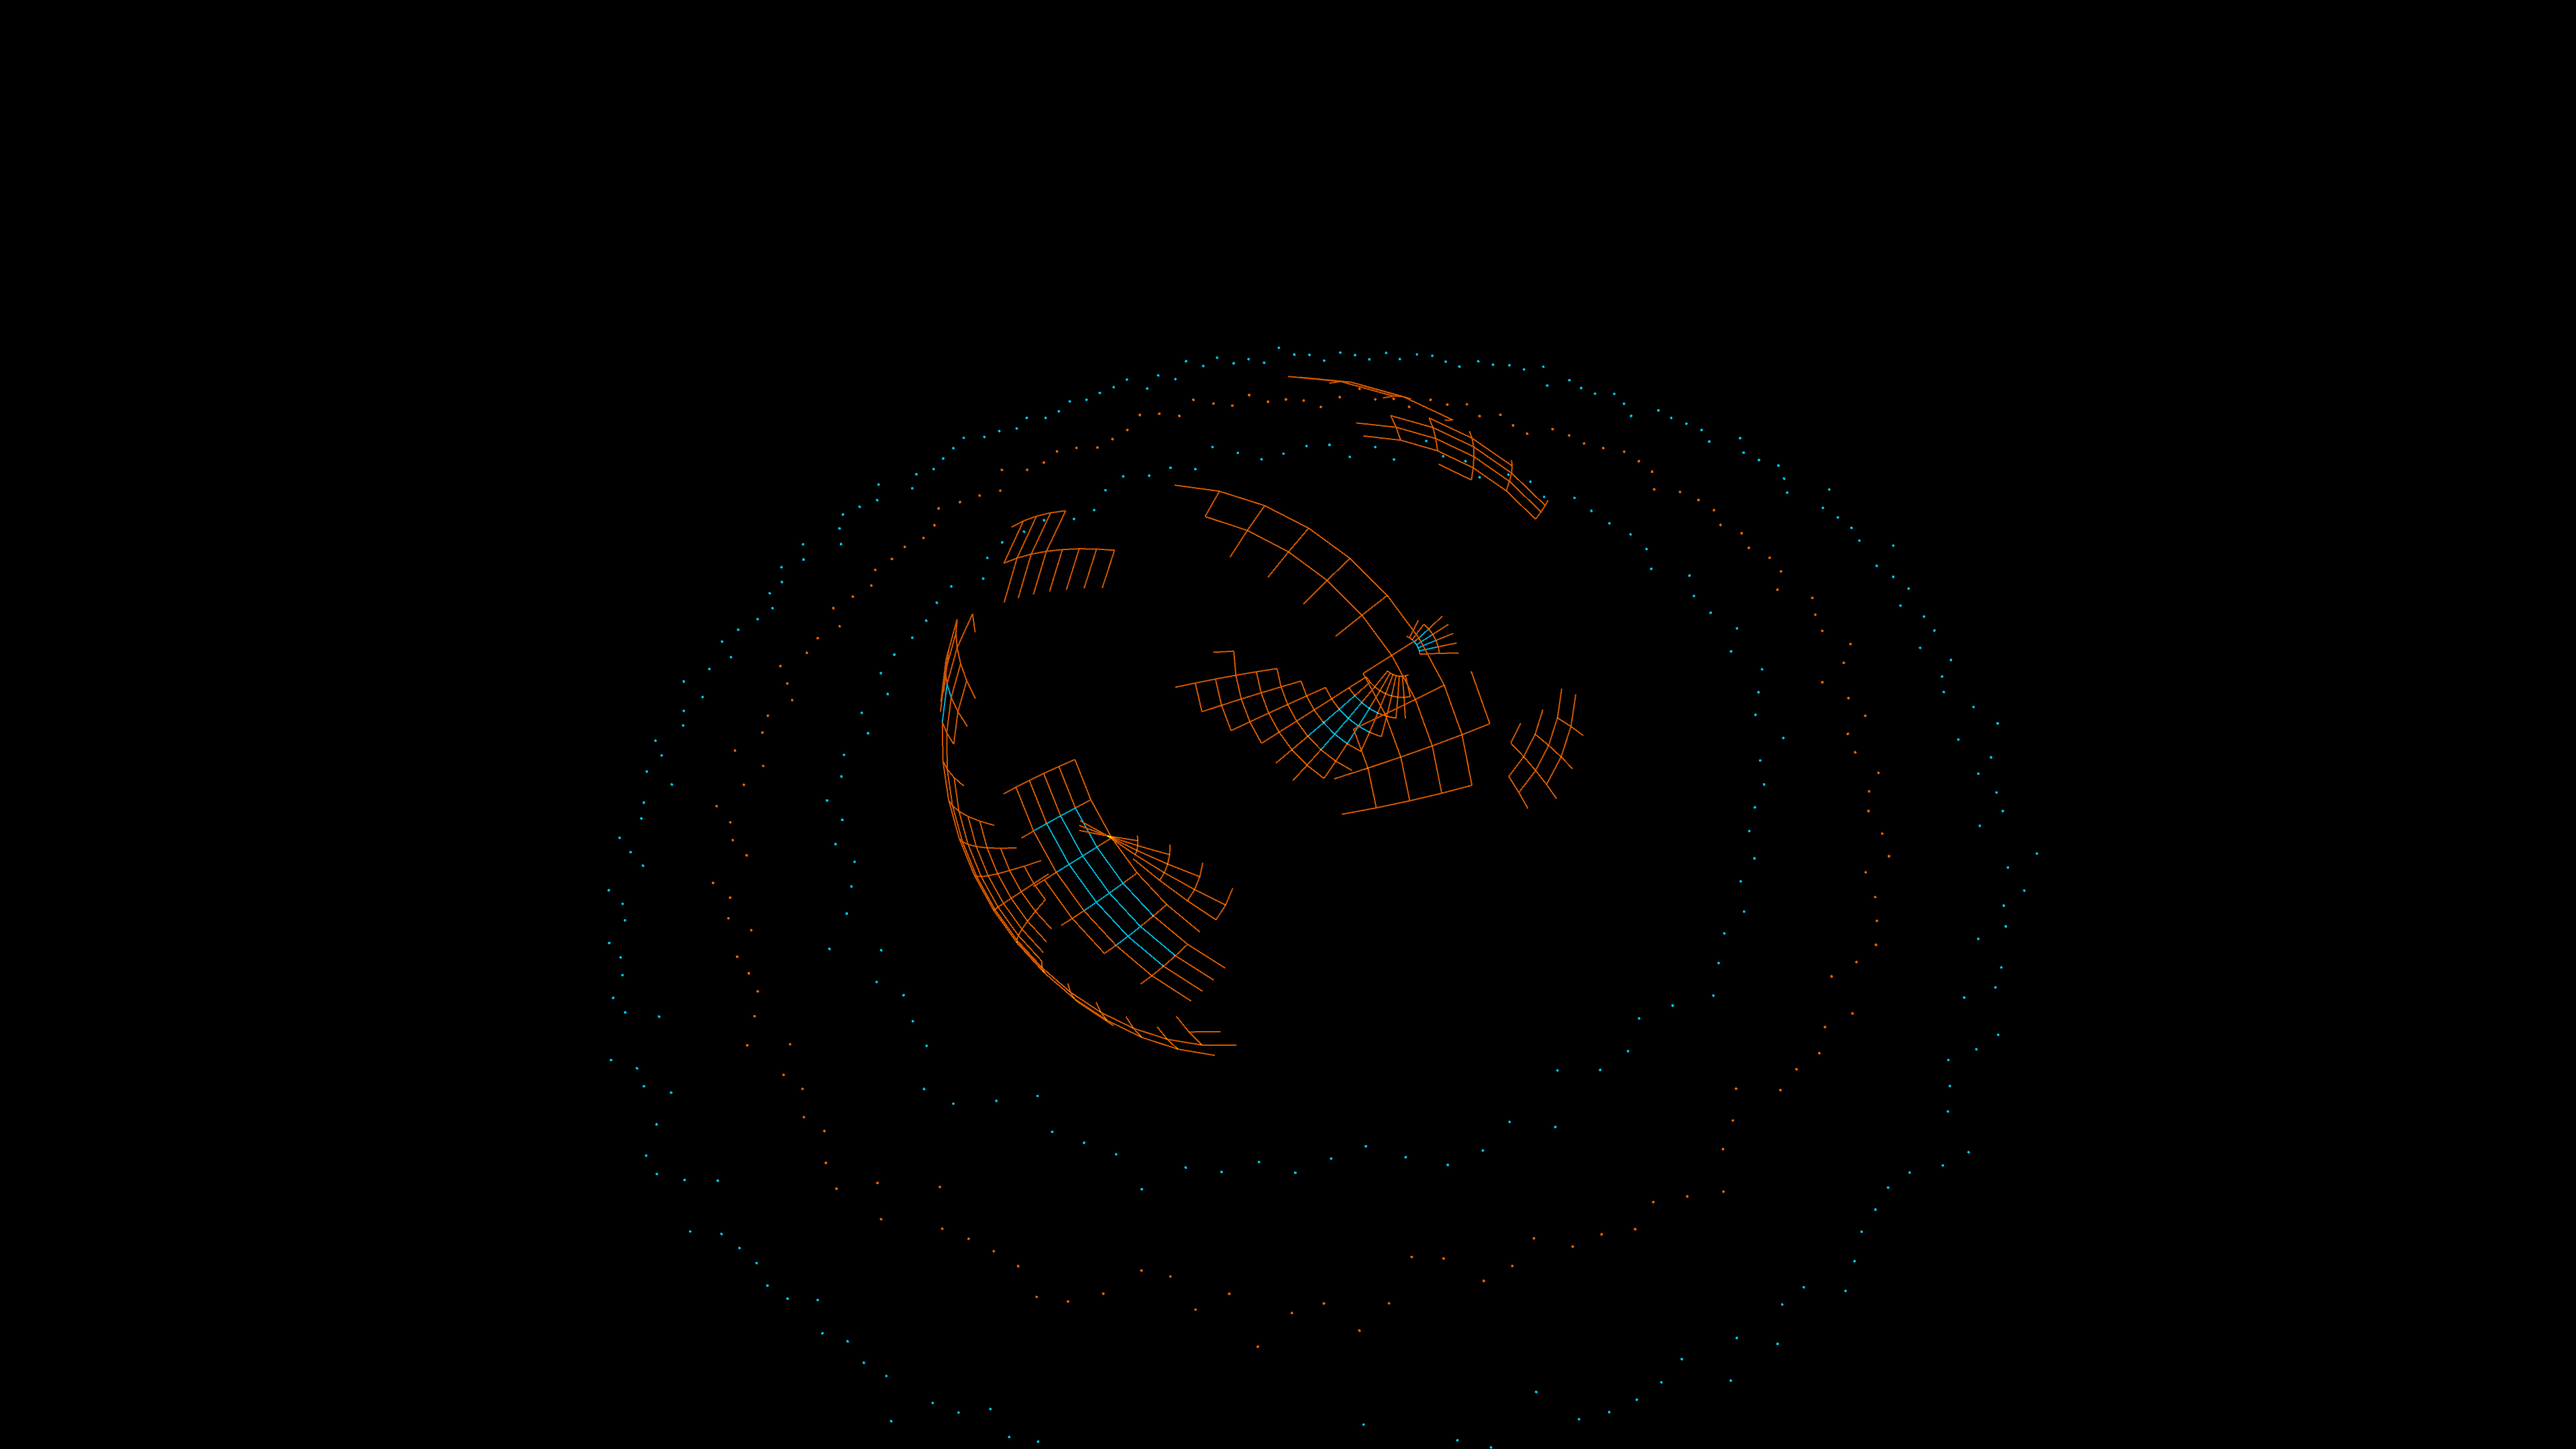
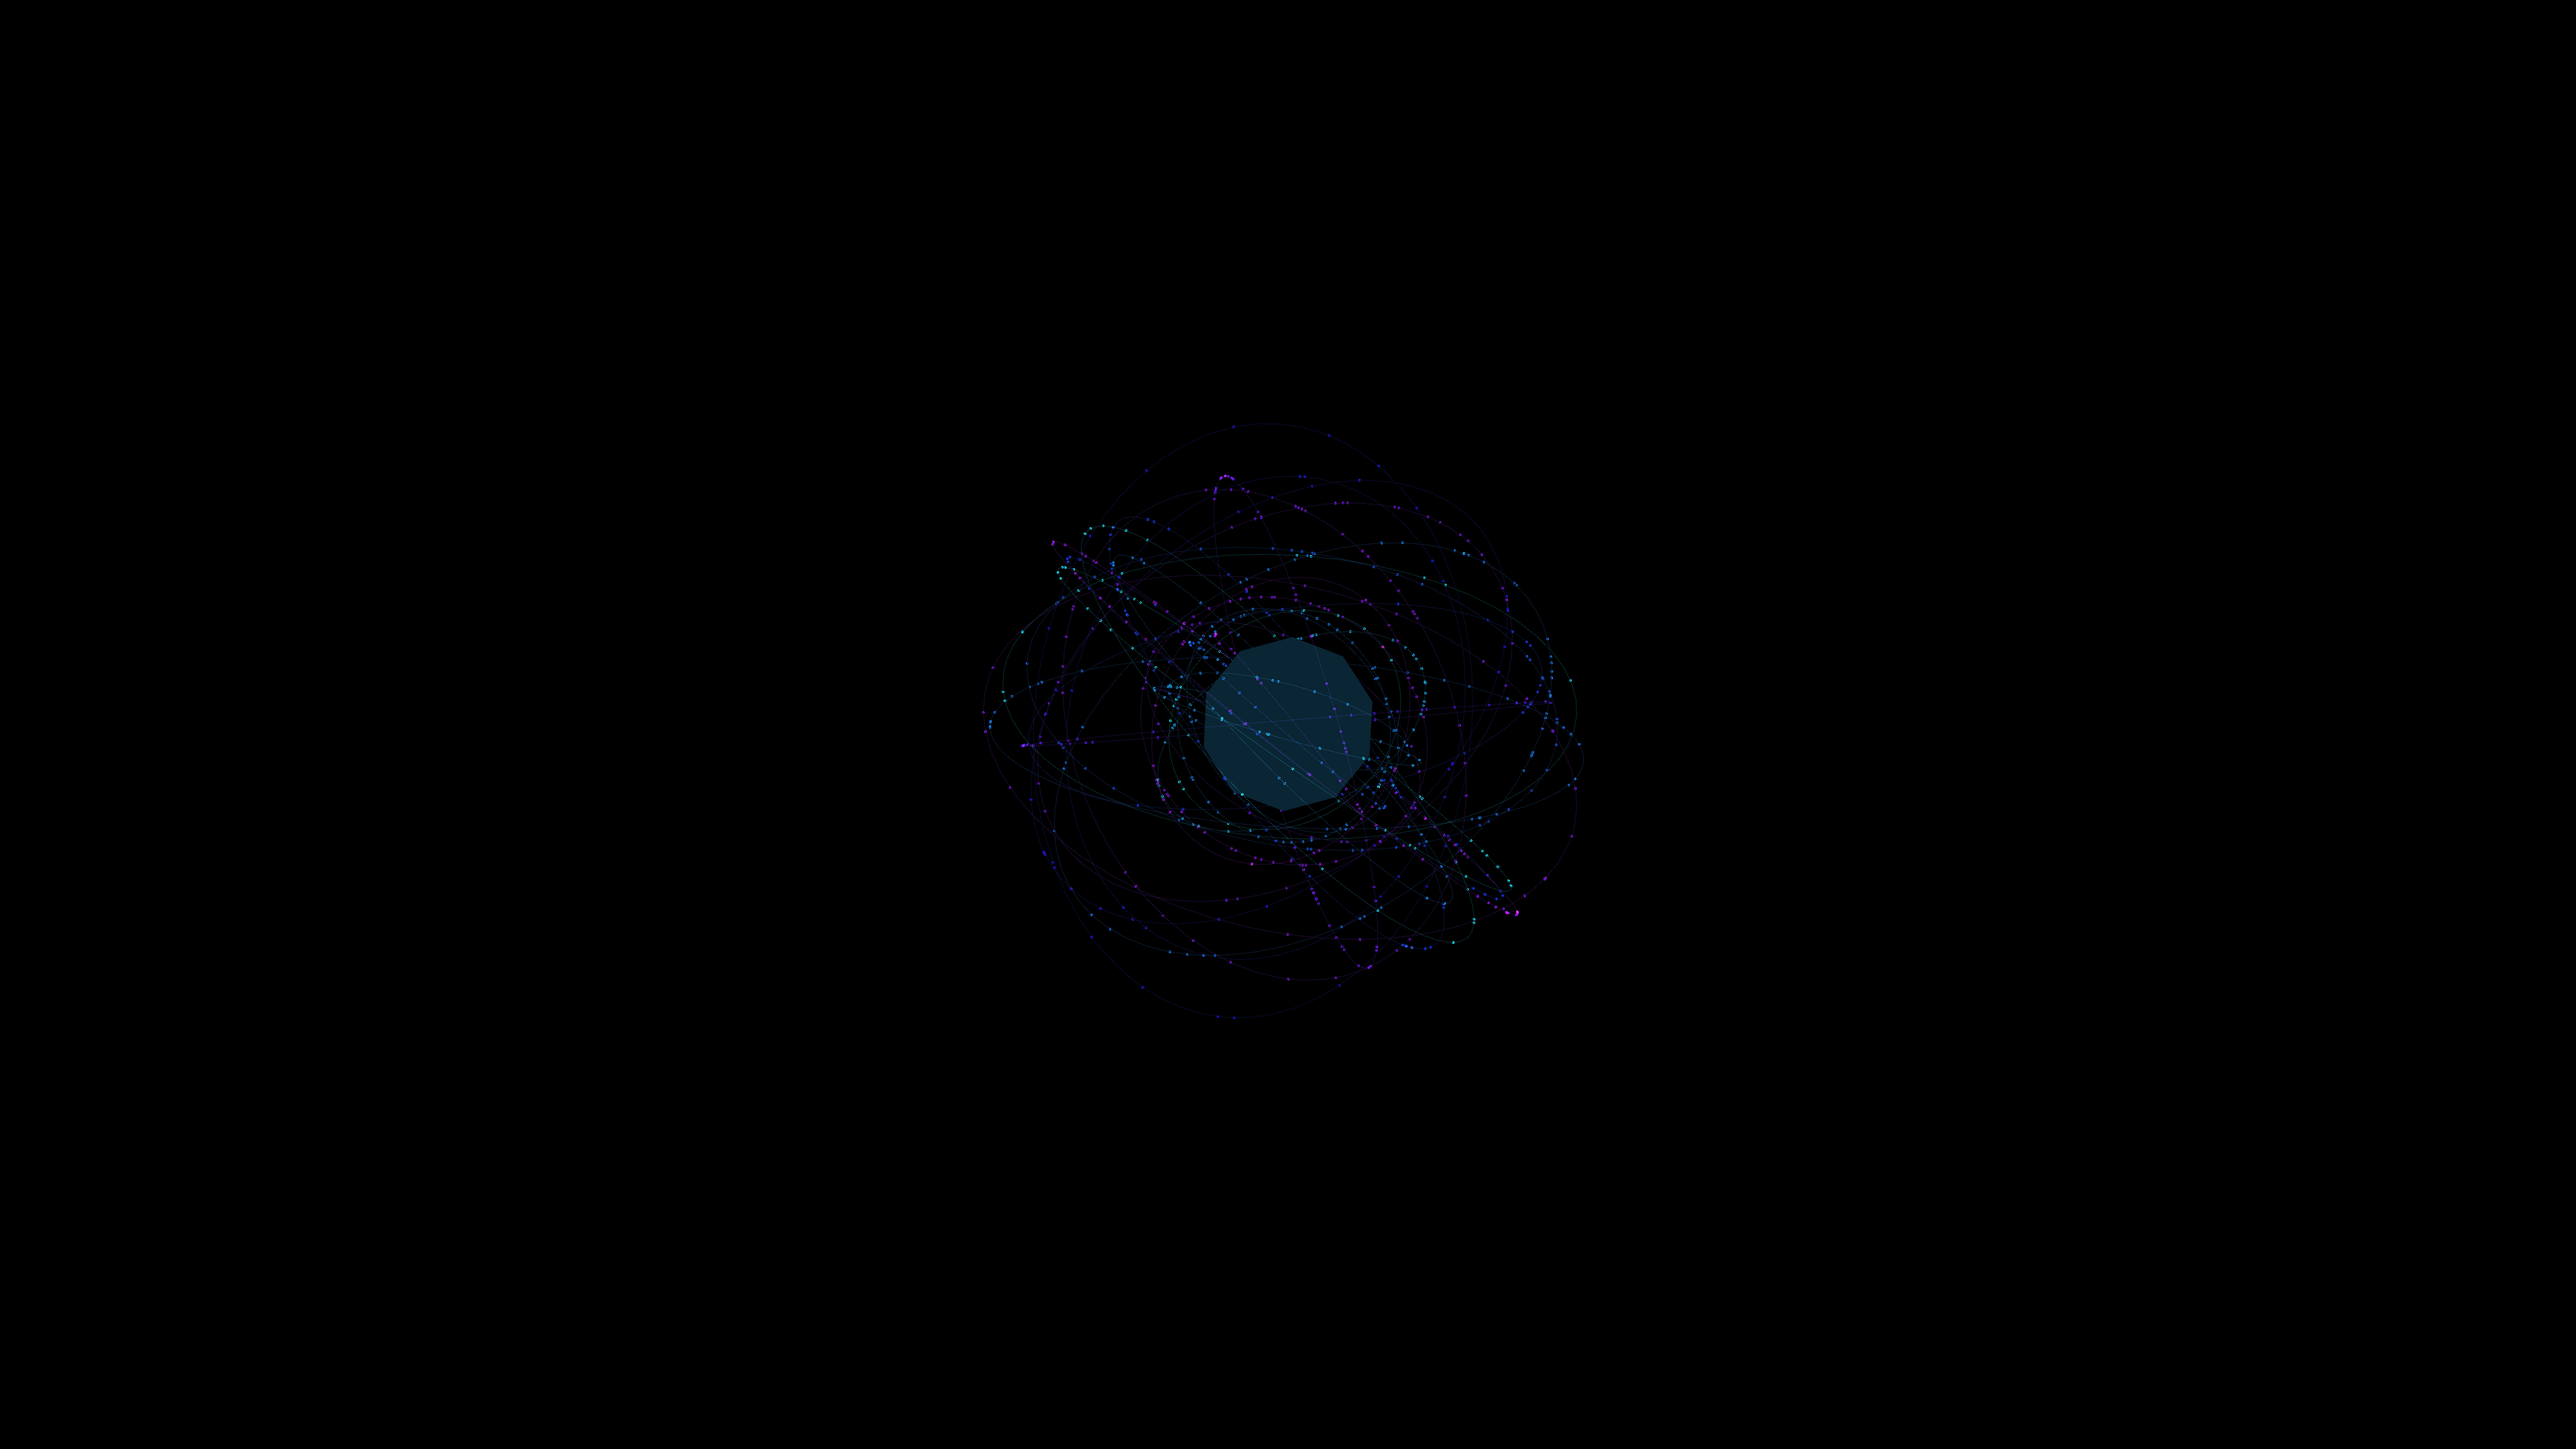
feat(art): add cybernetic_holographic_data_sphere_3d video artwork

diff --git a/sketch/cybernetic_holographic_data_sphere_3d/main.py b/sketch/cybernetic_holographic_data_sphere_3d/main.py
@@ -2,6 +2,7 @@ from pathlib import Path
 import shutil
 import subprocess
 import sys
+import random
 import py5
 import numpy as np
 
@@ -16,114 +17,111 @@ from lib.sizes import get_sizes
 SKETCH_DIR = sketch_dir(__file__)
 WORK_NAME = SKETCH_DIR.name
 FRAMES_DIR = SKETCH_DIR / "frames"
-DURATION_SEC = 20
+DURATION_SEC = 10
 FPS = 60
 TOTAL_FRAMES = DURATION_SEC * FPS
 PREVIEW_FILENAME = f"{WORK_NAME}_p1.png"
 PREVIEW_SIZE, OUTPUT_SIZE, _ = get_sizes()
 SIZE = OUTPUT_SIZE
 
+NUM_RINGS = 30
+
+class Ring:
+    def __init__(self, i):
+        self.id = i
+        self.radius = 400 + py5.random(-50, 50) if i > 10 else 200 + py5.random(-30, 30)
+        self.rot_x = random.uniform(0, py5.TWO_PI)
+        self.rot_y = random.uniform(0, py5.TWO_PI)
+        self.rot_z = random.uniform(0, py5.TWO_PI)
+        self.speed_x = random.uniform(-0.02, 0.02)
+        self.speed_y = random.uniform(-0.02, 0.02)
+        self.speed_z = random.uniform(-0.02, 0.02)
+        self.hue = random.uniform(180, 280)
+        self.points = int(random.uniform(20, 100))
+        self.dots = []
+        for _ in range(self.points):
+            if random.random() > 0.5:
+                self.dots.append(random.uniform(0, py5.TWO_PI))
+
 def setup():
     py5.size(*SIZE, py5.P3D)
     py5.pixel_density(1)
-    FRAMES_DIR.mkdir(exist_ok=True)
     py5.color_mode(py5.HSB, 360, 100, 100, 100)
+    FRAMES_DIR.mkdir(exist_ok=True)
+    py5.background(0)
     
+    global rings
+    rings = [Ring(i) for i in range(NUM_RINGS)]
+
 def draw():
-    py5.background(0) # Pure black
-    
-    time = py5.frame_count * 0.05
-    
-    py5.translate(SIZE[0]/2, SIZE[1]/2, 0)
-    
-    py5.rotate_x(time * 0.2)
-    py5.rotate_y(time * 0.3)
-    
+    py5.background(0)
     py5.blend_mode(py5.ADD)
     
-    radius = 500
-    details = 40
+    t = py5.frame_count * 0.05
     
-    py5.stroke_weight(2)
+    py5.translate(py5.width/2, py5.height/2, 0)
+    
+    # Global rotation
+    py5.rotate_x(t * 0.1)
+    py5.rotate_y(t * 0.15)
+    
+    # Draw core sphere
+    py5.no_stroke()
+    py5.fill(200, 80, 50, 40)
+    py5.sphere_detail(10)
+    py5.sphere(150 + 20 * py5.sin(t*2))
+    
+    # Draw rings
     py5.no_fill()
-    
-    # Draw fragmented sphere
-    for i in range(details):
-        lat0 = py5.PI * (-0.5 + float(i - 1) / details)
-        z0 = radius * py5.sin(lat0)
-        zr0 = radius * py5.cos(lat0)
-
-        lat1 = py5.PI * (-0.5 + float(i) / details)
-        z1 = radius * py5.sin(lat1)
-        zr1 = radius * py5.cos(lat1)
-
-        for j in range(details):
-            lng = py5.TWO_PI * float(j - 1) / details
-            x0 = py5.cos(lng) * zr0
-            y0 = py5.sin(lng) * zr0
-            x1 = py5.cos(lng) * zr1
-            y1 = py5.sin(lng) * zr1
-
-            lng1 = py5.TWO_PI * float(j) / details
-            x2 = py5.cos(lng1) * zr1
-            y2 = py5.sin(lng1) * zr1
-            x3 = py5.cos(lng1) * zr0
-            y3 = py5.sin(lng1) * zr0
-            
-            # Glitchy fragmentation using noise
-            n = py5.os_noise(i * 0.1, j * 0.1, time * 0.5)
-            if n > 0.4:
-                # Cyan and orange palette
-                if n > 0.7:
-                    py5.stroke(190, 100, 100, 80) # Cyan
-                else:
-                    py5.stroke(25, 100, 100, 80) # Orange
-                    
-                py5.begin_shape(py5.LINES)
-                py5.vertex(x0, y0, z0)
-                py5.vertex(x1, y1, z1)
-                
-                py5.vertex(x1, y1, z1)
-                py5.vertex(x2, y2, z1)
-                py5.end_shape()
-
-    # Draw orbiting rings of data points
-    py5.rotate_x(-time * 0.4)
-    py5.rotate_z(time * 0.1)
-    
-    for r in range(3):
-        ring_radius = radius + 200 + r * 150
-        num_points = 100 + r * 50
+    for ring in rings:
+        py5.push_matrix()
         
-        py5.stroke(190, 100, 100, 90) if r % 2 == 0 else py5.stroke(25, 100, 100, 90)
+        py5.rotate_x(ring.rot_x + t * ring.speed_x)
+        py5.rotate_y(ring.rot_y + t * ring.speed_y)
+        py5.rotate_z(ring.rot_z + t * ring.speed_z)
+        
+        # Draw ring track
+        py5.stroke(ring.hue, 80, 30, 60)
+        py5.stroke_weight(1)
+        
+        py5.begin_shape()
+        res = 60
+        for i in range(res + 1):
+            angle = (i / res) * py5.TWO_PI
+            py5.vertex(ring.radius * py5.cos(angle), ring.radius * py5.sin(angle), 0)
+        py5.end_shape(py5.CLOSE)
+        
+        # Draw data points on ring
+        py5.stroke(ring.hue, 90, 100, 90)
         py5.stroke_weight(4)
-        
-        py5.begin_shape(py5.POINTS)
-        for p in range(num_points):
-            angle = p * py5.TWO_PI / num_points + time * (0.05 + r * 0.02)
+        for dot_angle in ring.dots:
+            a = dot_angle + t * ring.speed_z * 2
+            x = ring.radius * py5.cos(a)
+            y = ring.radius * py5.sin(a)
+            py5.point(x, y, 0)
             
-            # Add some jitter to points
-            jitter = (py5.os_noise(p, r, time) - 0.5) * 50
-            
-            px = py5.cos(angle) * (ring_radius + jitter)
-            py5.vertex(px, 0, py5.sin(angle) * (ring_radius + jitter))
-        py5.end_shape()
+            # Occasional line to core
+            if py5.os_noise(ring.id, dot_angle, t * 0.1) > 0.8:
+                py5.stroke_weight(1)
+                py5.stroke((ring.hue + 50) % 360, 80, 80, 40)
+                py5.line(x, y, 0, 0, 0, 0)
+                py5.stroke_weight(4)
+                py5.stroke(ring.hue, 90, 100, 90)
+                
+        py5.pop_matrix()
+
+    if py5.frame_count % 60 == 0:
+        py5.load_np_pixels()
 
     py5.save_frame(str(FRAMES_DIR / "frame-####.png"))
 
-    if py5.frame_count == 2 or py5.frame_count % 60 == 0:
-        py5.load_np_pixels()
-        if py5.np_pixels.std() < 1.0:
-            print(f"[Error] Blank screen detected on frame {py5.frame_count} (std < 1.0). Aborting.")
-            import os
-            os._exit(1)
-
     if py5.frame_count % 60 == 0:
-        print(f"[Render Progress] Frame {py5.frame_count}/{TOTAL_FRAMES} ({py5.frame_count/TOTAL_FRAMES*100:.1f}%)")
+        print(f"[Render Progress] Frame {py5.frame_count}/{TOTAL_FRAMES} ({(py5.frame_count/TOTAL_FRAMES)*100:.1f}%)")
+        sys.stdout.flush()
 
     if py5.frame_count >= TOTAL_FRAMES:
         py5.exit_sketch()
-        print(f"[Render FFmpeg] Compiling {TOTAL_FRAMES} frames into video...")
+        
         subprocess.run([
             "ffmpeg", "-y", "-r", str(FPS),
             "-i", str(FRAMES_DIR / "frame-%04d.png"),
@@ -136,7 +134,6 @@ def draw():
         
         if FRAMES_DIR.exists():
             shutil.rmtree(FRAMES_DIR)
-            print("[Render Cleanup] Temporary frames directory successfully removed.")
             
         import os
         os._exit(0)

diff --git a/sketch/cybernetic_holographic_data_sphere_3d/README.md b/sketch/cybernetic_holographic_data_sphere_3d/README.md
@@ -1,9 +1,10 @@
 # cybernetic_holographic_data_sphere_3d
 
-An animated 20s sequence of a 3D wireframe sphere that looks like a high-tech holographic data core, with rings of floating data points orbiting it, shifting rapidly like a futuristic UI element.
+A floating holographic sphere made of spinning concentric data rings and particles.
 
-## Theme
-A 3D wireframe sphere that looks like a high-tech holographic data core, with rings of floating data points orbiting it, shifting rapidly like a futuristic UI element.
+![Preview](cybernetic_holographic_data_sphere_3d_p1.png)
 
-## Technique
-`py5.begin_shape(py5.LINES)` is used to draw a sphere built from lat/long segments, but many segments are dropped randomly using noise (`py5.os_noise`) to make it look fragmented and glitchy. Rings of small rectangles orbit the sphere. A neon cyan and orange color palette on a pure black background is used with additive blending for a glowing holographic effect.
+## Details
+- **Date**: 2026-06-20
+- **Technique**: Concentric rings on different axes rotating at different speeds, dotted with glowing data points.
+- **Format**: Animation (10s @ 60fps)

diff --git a/sketch/WORKS.md b/sketch/WORKS.md
@@ -1,3 +1,10 @@
+## cybernetic_holographic_data_sphere_3d
+
+- **Date**: 2026-06-20
+- **Theme**: A floating holographic sphere made of spinning concentric data rings and particles.
+- **Technique**: Concentric rings on different axes rotating at different speeds, dotted with glowing data points.
+- **Description**: An animated 10s sequence of a holographic 3D data sphere.
+
 ## kinetic_optical_illusion_waves_2d
 
 - **Date**: 2026-06-20

diff --git a/.agents/FEEDBACK.md b/.agents/FEEDBACK.md
@@ -1,3 +1,8 @@
+## cybernetic_holographic_data_sphere_3d
+
+- **Rating**: 
+- **Comment**: 
+
 ## kinetic_optical_illusion_waves_2d
 
 - **Rating**: 
